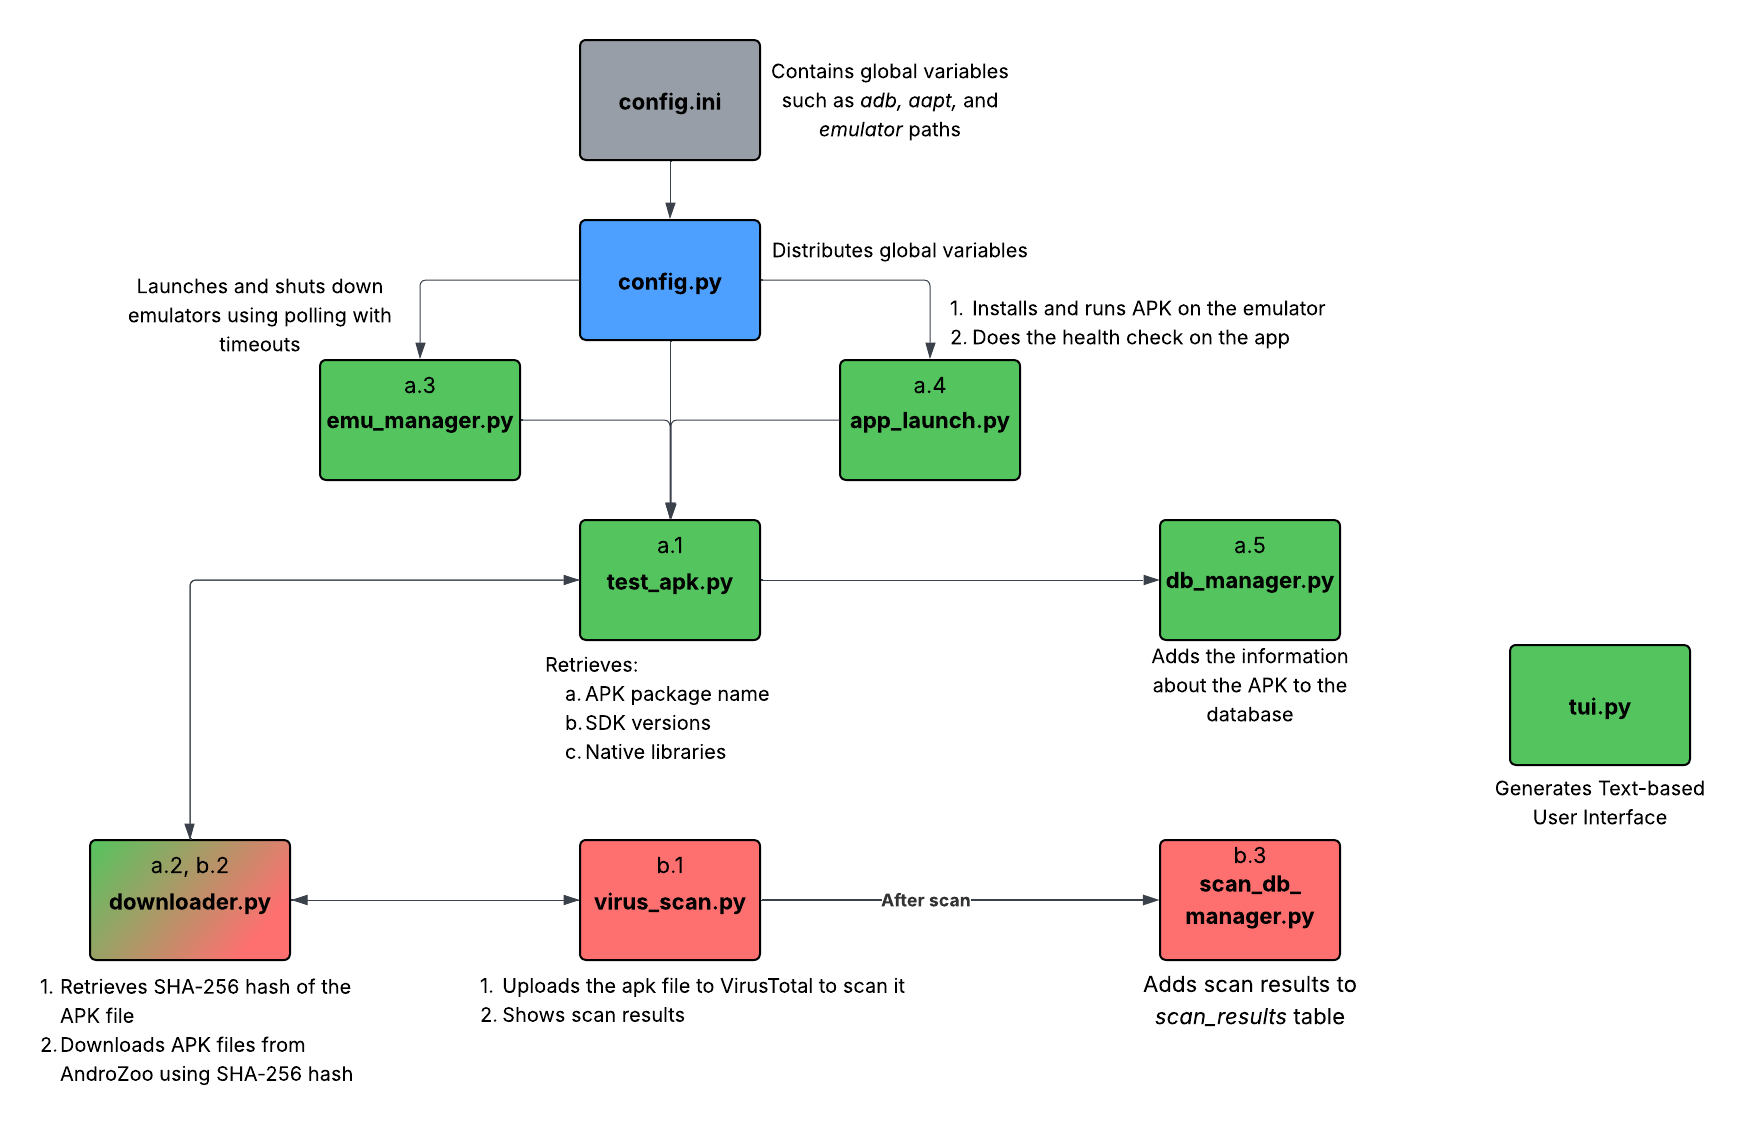
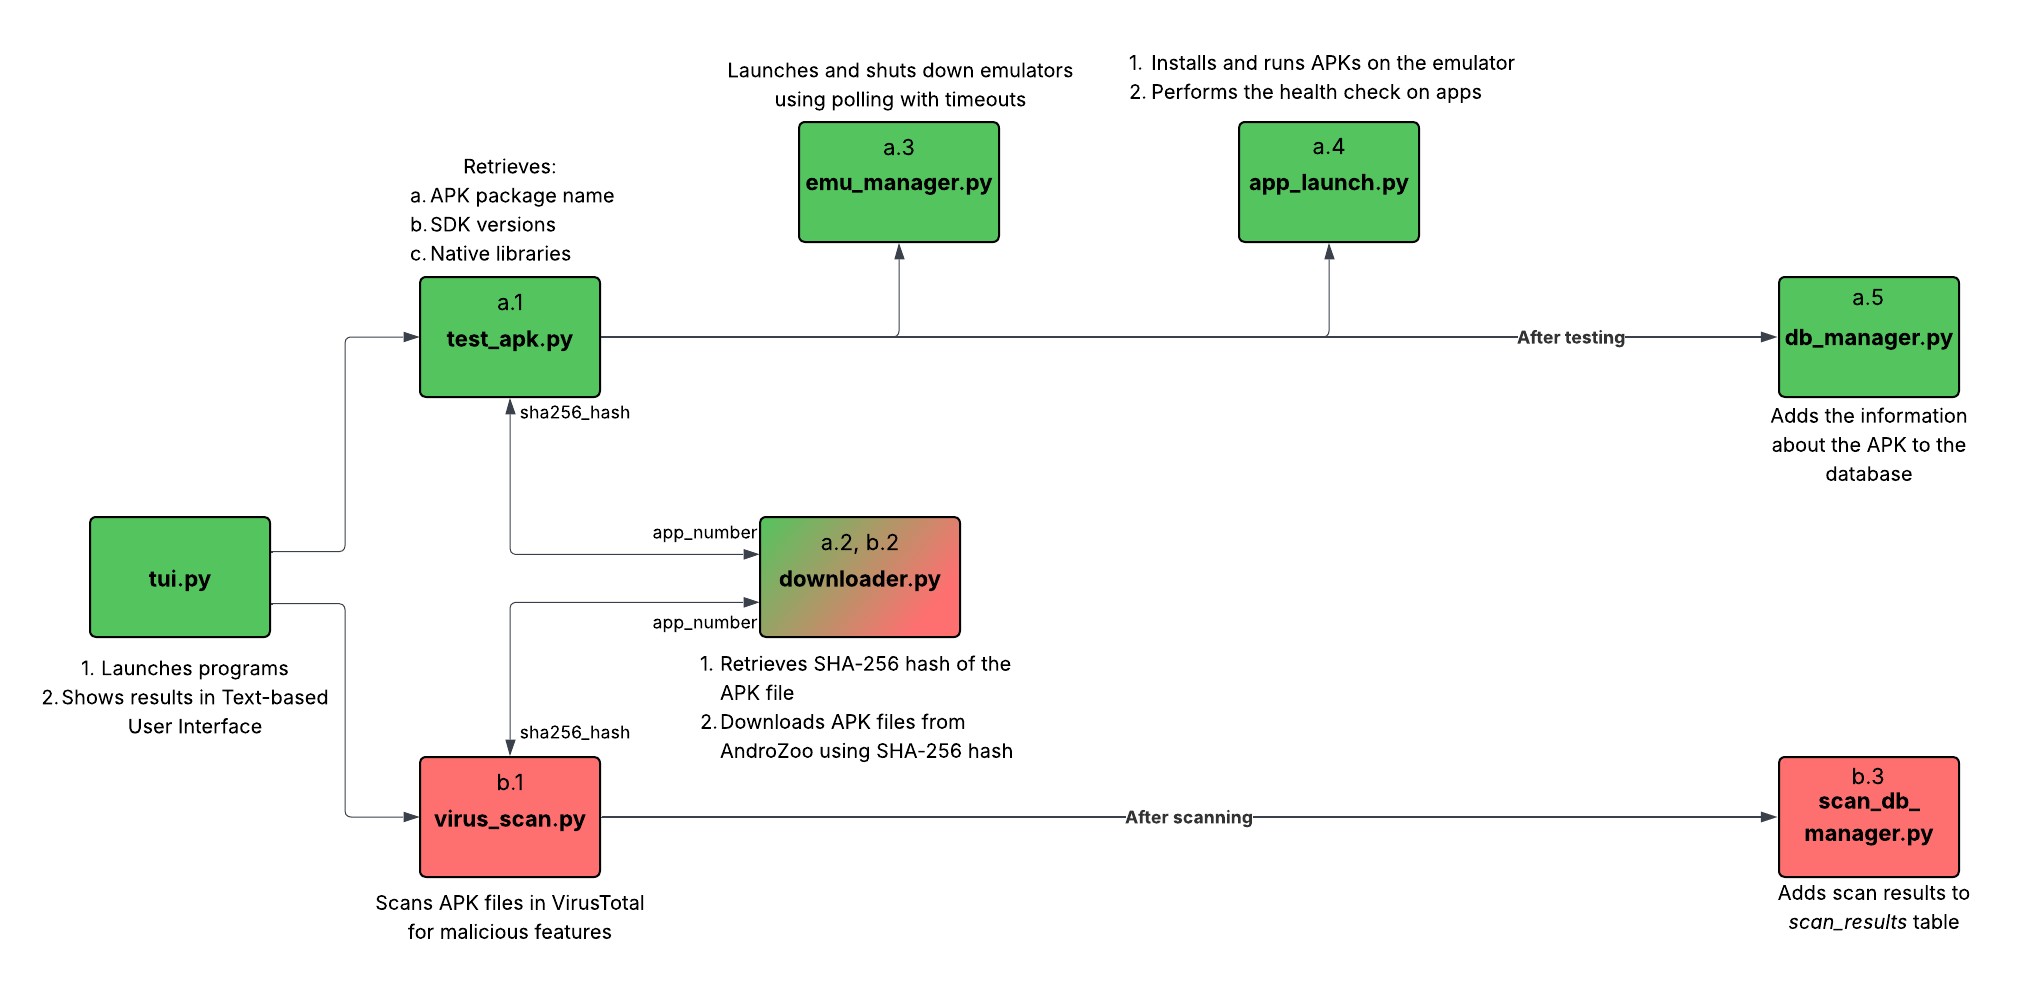
Updated README and program flow diagram.

diff --git a/readme.md b/readme.md
@@ -1,29 +1,30 @@
 # Introduction
 This project aims to automate the process of downloading APKs using AndroZoo API, downloading, installing, and executing them on an Android emulator.
-The program also performs a health check, scans files for malicious features on VirusTotal, and stores the results in a database.
+The program also performs a health check on installed apps, scans files for malicious features on VirusTotal, and stores results in a database.
 Current status and the statistics of the program are shown in a TUI (Text-based User Interface).
 
 # Commands
 - Execution: `make run`
+- Adding SSH key: `make ssh`
 - Cleaning generated files: `make clean`
 - View the database using SQLite Browser: `make db`
 
 # Files
-There are 10 python files.
+There are 9 python files.
 
-- **config.py**: Extracts global variables such as *adb*, *aapt*, and *emulator* paths from `config.ini`.
+- **config.py**: Extracts global variables and configuration variables from `config.ini`.
 
-- **test_apk.py:** The entry point of the program. It downloads an APK file using `downloader.py`, launches emulator with `emu_manager.py`, runs the `app_launch.py` to verify the app on the emulator, and updates the database with `db_manager.py` for every downloaded APK.
+- **tui.py:** Entry point of the program. It launches **APK Tester** and **Virus Scanner** and shows their current status as well as their statistics in a TUI (Text-based User Interface).
+
+- **test_apk.py:** Downloads an APK file using `downloader.py`, launches emulator with `emu_manager.py`, runs and verifies the app on the emulator with `app_launch.py`, and updates the database with `db_manager.py` for every downloaded APK.
 - **downloader.py**: Downloads APK files from Androzoo using the SHA-256 hash from `latest.csv`.
 - **emu_manager.py:** Launches or shuts down emulators based on app's target SDK version.
 - **app_launch.py:** Installs and runs the APK on the emulator. Then, it performs the health check on the app.
-- **db_manager.py:** Adds the information about the APK to the database.
+- **db_manager.py:** Adds the information about the APK to the database. In addition, information about scan results are retrieved from another table.
 
-- **virus_scan.py:** Scans APK files for malicious activity on the VirusTotal website using API.
-- **scan_db_manager.py:** Adds scan results to the *scan_results* of the database.
+- **virus_scan.py:** Scans APK files for malicious activity on the *VirusTotal* website using their API.
+- **scan_db_manager.py:** Adds scan results to the database.
 
-- **tui.py:** Text-based User Interface manager.
-- **update_stats.py:** Updates stats for TUI.
 
 # Program Flow Diagram
 ![Program Flow Diagram](./diagram.png)
